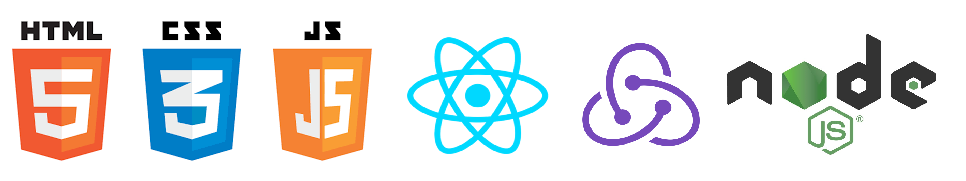
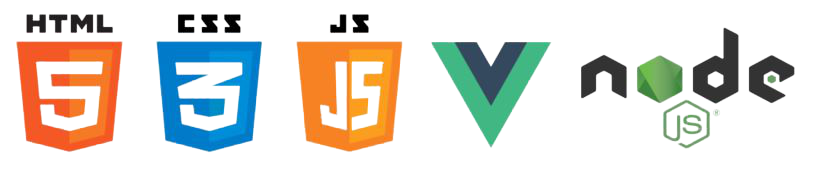
[Docs] README 수정
- 기술스택 (프론트엔드, AI) 이미지를 교체했습니다.
- 몇몇 부분에 볼드체 처리를 했습니다.

Former-commit-id: b6405e89f1df3a4cfff6578797cbde1da02d8321 [formerly a5a69880dafe33063b5e7b5303975856edd453dd] [formerly 78c79f5d43ec325b32636d2b3660e2b13e1df676 [formerly beb8fceee175f583ecfd9926adcfc6380583fa2a]] [formerly 7316e2480b3c38c1fff7af62402490ac9387cfc7 [formerly 5721339e7a956b776a1090c69a8c560b9e0fd246]] [formerly ae1df756feb26a5bdec0d0fe01274e5babbed781 [formerly 81ab6c6fd28e4c5eb52a628bd0e42930548dddd7] [formerly ca1585a18e84d7549667a218cb8a1cc27cdf1a97 [formerly 4bb7067757e0dfa47244559d470018ff25a6ad97]] [formerly 7316e2480b3c38c1fff7af62402490ac9387cfc7 [formerly 5721339e7a956b776a1090c69a8c560b9e0fd246] [formerly 1a4ad627ba42565d21b402eb6b1336d66b7d6cd7 [formerly 4bf4746dc5580082487f41f1e181efc402f40250]]]]
Former-commit-id: ae1df756feb26a5bdec0d0fe01274e5babbed781 [formerly 81ab6c6fd28e4c5eb52a628bd0e42930548dddd7] [formerly ca1585a18e84d7549667a218cb8a1cc27cdf1a97 [formerly 4bb7067757e0dfa47244559d470018ff25a6ad97]]
Former-commit-id: ae1df756feb26a5bdec0d0fe01274e5babbed781 [formerly 81ab6c6fd28e4c5eb52a628bd0e42930548dddd7]
Former-commit-id: 9df710cdd76766749d9cd2d2aa9e4ef822d77865 [formerly b3ded93aa713e8334c5c4d6e5794cc1739d6fdfb]
Former-commit-id: 7cc861d6f786dee4c5db9100c176c5edf611a9b2

diff --git a/README.md b/README.md
@@ -98,21 +98,25 @@ $ pip install -r requirements.txt
 $ python manage.py runserver
 ```
 
-AUTH SERVER (LOCAL)
+**AUTH SERVER (LOCAL)**
+
 1. 실행
 
-CARD SERVER (LOCAL)
+**CARD SERVER (LOCAL)**
+
 1. C드라이브 밑에 ssafy 폴더 생성
 2. STTService 클래스에서 LOCAL_PATH 설정
 3. 구글 STT를 위한 환경변수 등록 (https://codedragon.tistory.com/9406)
 4. 실행
 
-AUTH SERVER (UBUNTU)
+**AUTH SERVER (UBUNTU)**
+
 ```bash
 $ java -jar spring-social-0.0.1-SNAPSHOT.jar --server.servlet.context-path=/api
 ```
 
-CARD SERVER (UBUNTU)
+**CARD SERVER (UBUNTU)**
+
 ```bash
 $ export GOOGLE_APPLICATION_CREDENTIALS="/home/ubuntu/s04p23a201/backend/ssokssok-bd6c9dfa56f1.json"
 $ java -jar ssokcard-0.0.1-SNAPSHOT.jar --server.servlet.context-path=/card-api --server.port=8081
